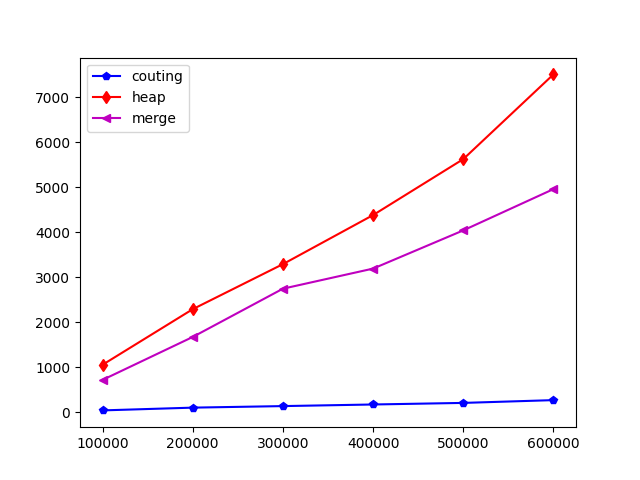
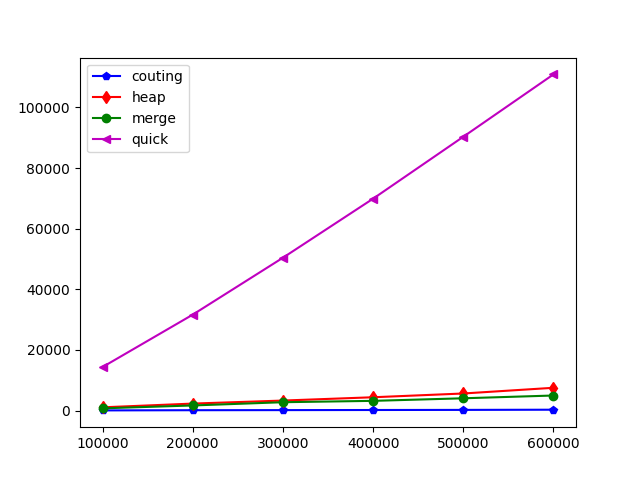
BuInSe Graf

diff --git a/prac1_sorts/python src/Tgraficas.py b/prac1_sorts/python src/Tgraficas.py
@@ -7,10 +7,10 @@ datos=pd.read_csv('TimeComparacion.csv',header=0,iterator=True, chunksize=10)
 
 for chunk in datos:
 	x = list(chunk.iloc[:,0])
-	y1 = list(chunk.iloc[:,1])
-	y2 = list(chunk.iloc[:,2])
-	#y3 = list(chunk.iloc[:,3])
-	y4 = list(chunk.iloc[:,4])
+	y1 = list(chunk.iloc[:,7])
+	y2 = list(chunk.iloc[:,3])
+	y3 = list(chunk.iloc[:,6])
+	#y4 = list(chunk.iloc[:,6])
 	#y5 = list(chunk.iloc[:,5])
 	#y6 = list(chunk.iloc[:,6])
 	#y7 = list(chunk.iloc[:,7])
@@ -21,14 +21,14 @@ for chunk in datos:
 print(x)
 print(y1)
 print(y2)
-#print(y3)
-print(y4)
+print(y3)
+#print(y4)
 #print(y5)
 #print(y6)
 #print(y7)
 
-plot(x,y1,'bp-',x,y2,'rd-',x,y4,'m<-')
-legend(('couting','heap','merge'),prop = {'size':10},loc='upper left')
+plot(x,y1,'bp-',x,y2,'rd-',x,y3,'go-')
+legend(('bubble','insertion','selection'),prop = {'size':10},loc='upper left')
 
 
 show()
